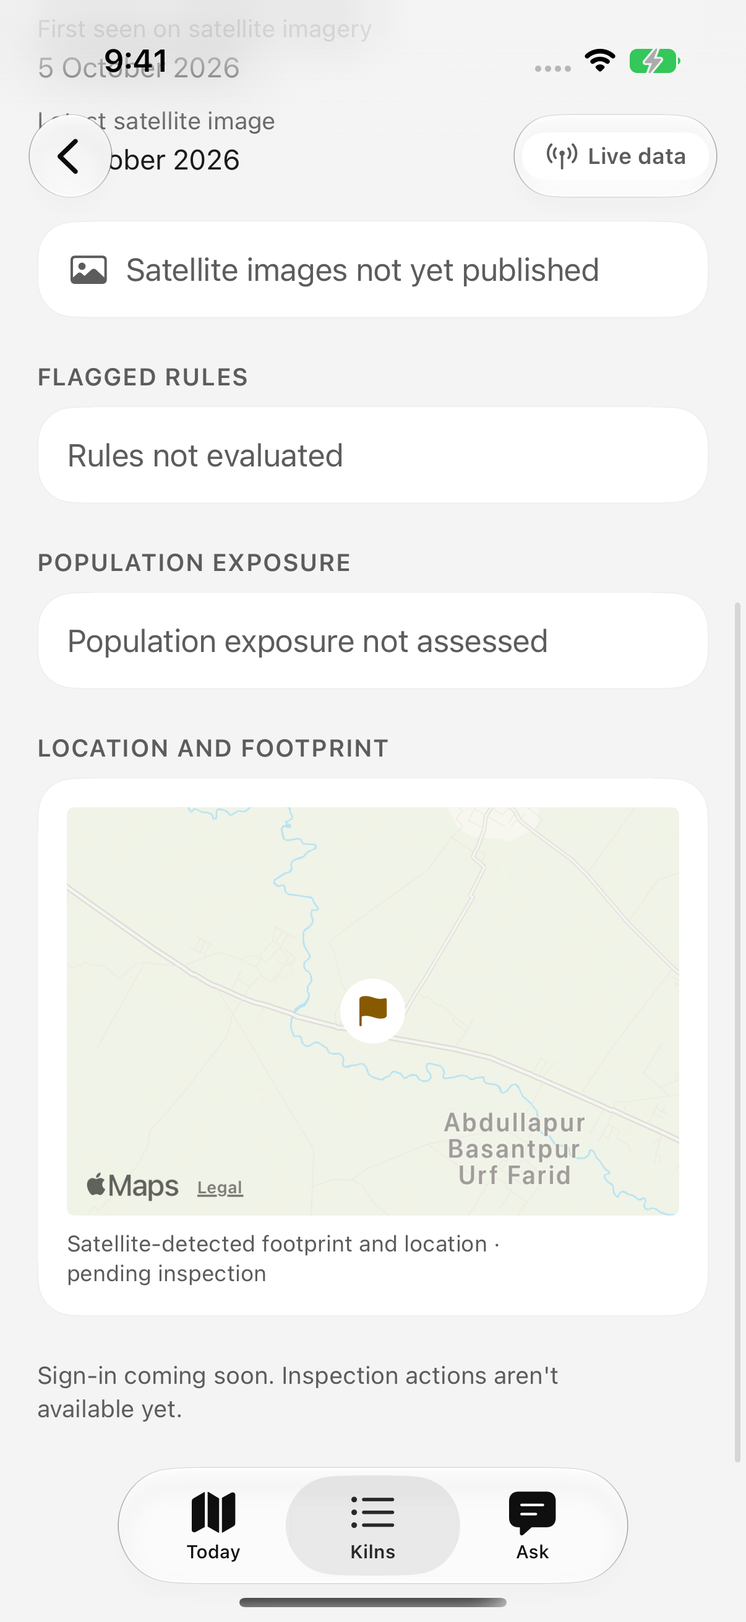
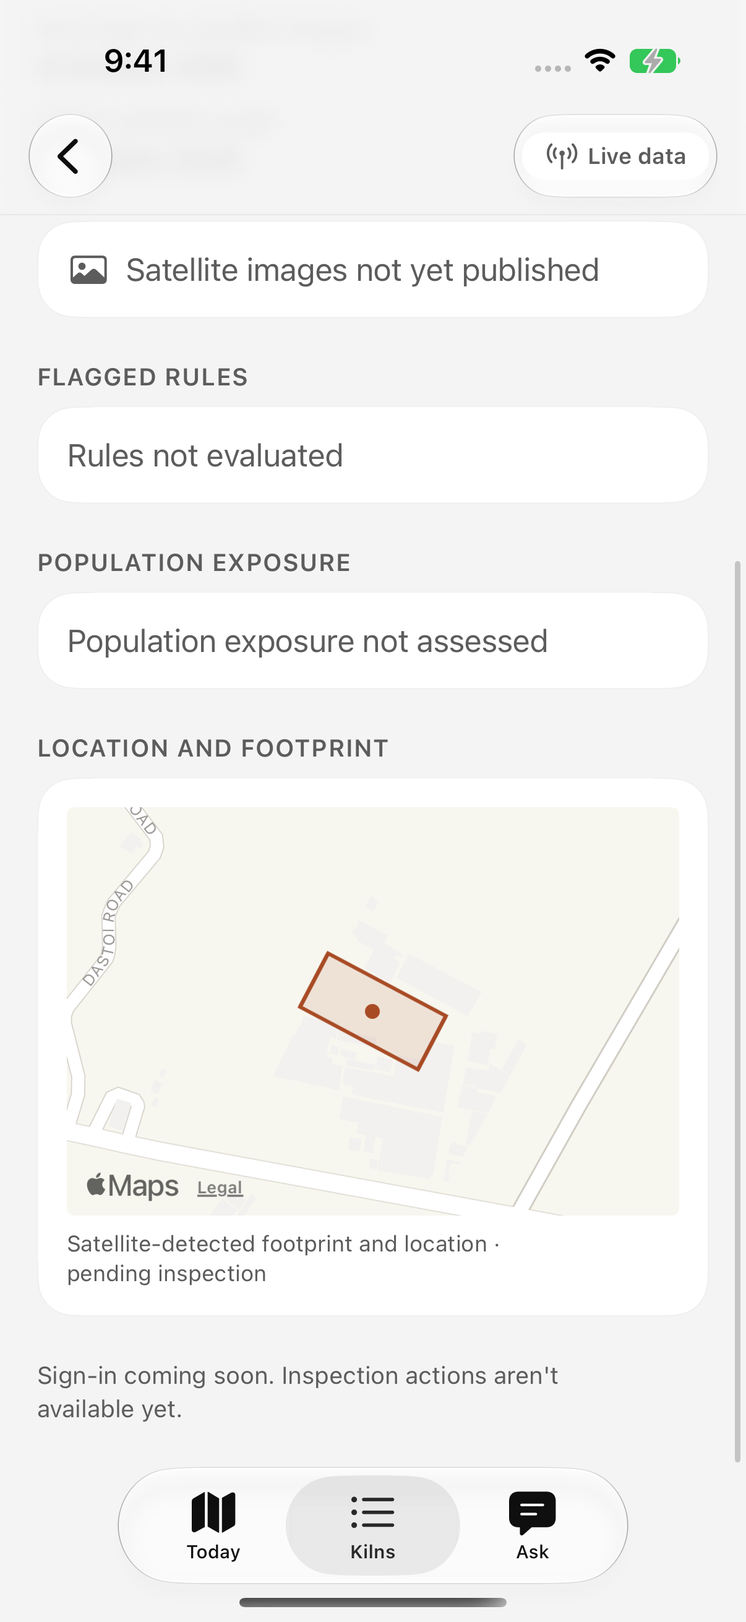
refactor: streamline KilnIDLabel and enhance UI with scroll edge effects; add polish report and verification files

diff --git a/App/docs/screens/phase-3/polish-ui-checks.swift b/App/docs/screens/phase-3/polish-ui-checks.swift
@@ -1,0 +1,203 @@
+// Temporary UI harness: /tmp/KilnWatchPolishChecks. Root project is unchanged.
+// Appearance and AX5 are set with simctl before each selected run.
+// Set the capture mode/name to Dark for dark captures; the saved version is Light.
+// The search-Cancel check ran once and failed to find the native beta Cancel button.
+import XCTest
+import UIKit
+
+final class Phase3Checks: XCTestCase {
+    override func setUpWithError() throws { continueAfterFailure = false }
+    @MainActor private func launch(_ args: [String] = []) -> XCUIApplication {
+        let app = XCUIApplication(bundleIdentifier: "com.kilnwatch.inspector")
+        app.launchArguments = ["-tab", "kilns", "-autoplay", "none"] + args
+        app.launch()
+        return app
+    }
+    @MainActor private func text(_ app: XCUIApplication, _ value: String, timeout: Double = 12) {
+        XCTAssertTrue(app.staticTexts[value].firstMatch.waitForExistence(timeout: timeout), value)
+    }
+    @MainActor private func noClaims(_ app: XCUIApplication) {
+        let labels = app.descendants(matching: .any).allElementsBoundByIndex.map(\.label).joined(separator: "\n").lowercased()
+        XCTAssertFalse(labels.contains("\u{69}\u{6c}\u{6c}\u{65}\u{67}\u{61}\u{6c}")); XCTAssertFalse(labels.contains("800 m"))
+        XCTAssertFalse(app.buttons["Record verdict"].exists)
+        XCTAssertFalse(app.buttons["Ask about this kiln"].exists)
+    }
+    @MainActor private func shot(_ name: String, _ app: XCUIApplication) {
+        let screenshot = app.screenshot()
+        let directory = FileManager.default.urls(for: .documentDirectory, in: .userDomainMask)[0]
+        try! screenshot.pngRepresentation.write(to: directory.appendingPathComponent(name + ".png"))
+        let a = XCTAttachment(screenshot: screenshot); a.name = name; a.lifetime = .keepAlways; add(a)
+    }
+    @MainActor func testLiveListDetailAndToday() throws {
+        let app = launch()
+        text(app, "HAPUR · 39 KILNS", timeout: 25)
+        text(app, "Live data")
+        noClaims(app)
+        let search = app.searchFields.firstMatch
+        XCTAssertTrue(search.exists); search.tap(); search.typeText("KW-6b3b38da681850e5af46b024f3d3f78e")
+        let row = app.descendants(matching: .any)["kiln-row-KW-6b3b38da681850e5af46b024f3d3f78e"].firstMatch
+        XCTAssertTrue(row.waitForExistence(timeout: 5)); row.tap()
+        text(app, "Model score 0.32")
+        text(app, "Predicted FCBK · unverified")
+        text(app, "Satellite images not yet published")
+        noClaims(app)
+        app.swipeUp()
+        text(app, "Rules not evaluated")
+        text(app, "Population exposure not assessed")
+        noClaims(app)
+        print("LIVE_AFTER_SEARCH_CROSS_TAB_UNVERIFIED_NATIVE_BETA_SELECTOR")
+        app.launchArguments = ["-tab", "today", "-autoplay", "none"]
+        app.launch()
+        text(app, "39 satellite-flagged candidates")
+        text(app, "Route planning isn't available yet")
+        XCTAssertFalse(app.buttons["Start route"].exists)
+        let pins = app.buttons.matching(NSPredicate(format: "identifier BEGINSWITH %@", "kiln-pin-"))
+        XCTAssertTrue(pins.firstMatch.waitForExistence(timeout: 5))
+        let pin = try XCTUnwrap(pins.allElementsBoundByIndex.first { $0.isHittable })
+        pin.tap()
+        text(app, "Satellite images not yet published")
+        noClaims(app)
+    }
+    @MainActor func testExistingFootprintsWhenZoomedAndRestoredMotion() throws {
+        XCTAssertFalse(UIAccessibility.isReduceMotionEnabled)
+        let app = launch(["-tab", "today"])
+        text(app, "39 satellite-flagged candidates", timeout: 25)
+        let map = app.maps.firstMatch
+        XCTAssertTrue(map.waitForExistence(timeout: 5))
+        let pins = app.buttons.matching(NSPredicate(format: "identifier BEGINSWITH %@", "kiln-pin-"))
+        XCTAssertEqual(pins.count, 39)
+        let pin = try XCTUnwrap(pins.allElementsBoundByIndex.first { $0.isHittable })
+        let center = map.coordinate(withNormalizedOffset: CGVector(dx: 0.5, dy: 0.5))
+        pin.coordinate(withNormalizedOffset: CGVector(dx: 0.5, dy: 0.5)).press(forDuration: 0.1, thenDragTo: center)
+        map.pinch(withScale: 20, velocity: 5)
+        shot("today-zoom-review", app)
+        print("POLISH_EXISTING_ZOOM_39_PINS_RESTORED_MOTION_CHECK")
+    }
+    @MainActor func testSearchCancelThenToday() throws {
+        let app = launch()
+        text(app, "HAPUR · 39 KILNS", timeout: 25)
+        let search = app.searchFields.firstMatch
+        search.tap(); search.typeText("6b3b38")
+        text(app, "HAPUR · 1 KILNS")
+        let cancel = app.buttons["Cancel"].firstMatch
+        XCTAssertTrue(cancel.waitForExistence(timeout: 5)); cancel.tap()
+        let today = app.tabBars.buttons["Today"].firstMatch
+        XCTAssertTrue(today.waitForExistence(timeout: 5)); today.tap()
+        text(app, "39 satellite-flagged candidates")
+        text(app, "Route planning isn't available yet")
+        let pins = app.buttons.matching(NSPredicate(format: "identifier BEGINSWITH %@", "kiln-pin-"))
+        XCTAssertEqual(pins.count, 39)
+        print("POLISH_SEARCH_CANCEL_THEN_TODAY_PASS_39_PINS")
+    }
+    @MainActor func testPublicListStates() throws {
+        for (scenario, message) in [
+            ("loading", "Loading satellite records"),
+            ("empty", "No flagged kilns in Hapur in the scanned imagery"),
+            ("offline", "You're offline"),
+            ("503", "KilnWatch data is temporarily unavailable"),
+            ("429", "The service is still busy. Please retry shortly.")
+        ] {
+            let app = launch(["-publicDemo", scenario]); text(app, message)
+            text(app, "Sample data"); noClaims(app)
+            XCTAssertTrue(app.buttons["Retry"].exists)
+            if scenario != "loading" { XCTAssertTrue(app.buttons["Retry"].isEnabled); app.buttons["Retry"].tap(); text(app, message) }
+        }
+        let app = launch(["-publicDemo", "429Recovery"])
+        text(app, "HAPUR · 11 KILNS"); text(app, "Sample data"); noClaims(app)
+    }
+    @MainActor func testPublicDetailFailuresAndRecovery() throws {
+        for (scenario, message) in [("404", "Kiln not found"), ("offline", "You're offline"), ("503", "KilnWatch data is temporarily unavailable"), ("recovery", "KilnWatch data is temporarily unavailable")] {
+            let app = launch(["-publicDemo", "loaded", "-publicDetail", scenario, "-open", "KW-0412"])
+            text(app, message); text(app, "Sample data"); noClaims(app)
+            XCTAssertTrue(app.buttons["Retry"].isEnabled); app.buttons["Retry"].tap()
+            if scenario == "recovery" { text(app, "Model score 0.82"); text(app, "Satellite images not yet published") }
+            else { text(app, message) }
+            noClaims(app)
+        }
+    }
+    @MainActor func testFixtureRouteRegression() throws {
+        let app = launch(["-fixtures", "YES", "-signedIn", "YES", "-tab", "today"])
+        XCTAssertTrue(app.buttons["Start route"].waitForExistence(timeout: 12)); text(app, "Sample data · illustrative routing")
+        app.buttons["Stop 2, KW-0388"].tap(); XCTAssertTrue(app.buttons["Navigate to KW-0388"].waitForExistence(timeout: 5))
+        app.buttons["Start route"].tap(); XCTAssertTrue(app.buttons["End route"].waitForExistence(timeout: 5))
+        app.buttons["Route list"].tap(); XCTAssertTrue(app.navigationBars["Route · 9 stops"].waitForExistence(timeout: 5))
+    }
+    @MainActor func testSyntheticEvidenceStatesAndAdjustableComparator() throws {
+        for state in ["loaded", "loading", "failed"] {
+            let app = launch(["-publicDemo", "loaded", "-open", "KW-0412", "-evidenceFixture", state])
+            text(app, "Model score 0.82"); app.swipeUp()
+            text(app, "Synthetic local image fixture · not satellite evidence")
+            if state == "loaded" {
+                let image = app.descendants(matching: .any)["satellite-comparator"].firstMatch
+                XCTAssertTrue(image.waitForExistence(timeout: 5)); XCTAssertEqual(image.value as? String, "Divider at 50 percent")
+                let from = image.coordinate(withNormalizedOffset: CGVector(dx: 0.5, dy: 0.5))
+                let to = image.coordinate(withNormalizedOffset: CGVector(dx: 0.7, dy: 0.5))
+                from.press(forDuration: 0.1, thenDragTo: to)
+                XCTAssertNotEqual(image.value as? String, "Divider at 50 percent")
+                shot("synthetic-evidence-loaded", app)
+            } else if state == "loading" { text(app, "Loading satellite images"); shot("synthetic-evidence-loading", app) }
+            else { text(app, "Satellite images couldn't be loaded"); app.buttons["Retry images"].tap(); text(app, "Satellite images couldn't be loaded"); shot("synthetic-evidence-failed", app) }
+            noClaims(app)
+        }
+    }
+    @MainActor func testRequiredScreenshots() throws {
+        for mode in ["Light"] {
+            let suffix = mode.lowercased()
+            var app = launch(["-UIUserInterfaceStyle", mode]); text(app, "HAPUR · 39 KILNS", timeout: 25); shot("kilns-\(suffix)", app)
+            app = launch(["-UIUserInterfaceStyle", mode, "-open", "KW-6b3b38da681850e5af46b024f3d3f78e"])
+            text(app, "Model score 0.32"); XCTAssertEqual(app.staticTexts.matching(identifier: "KW-6b3b38da681850e5af46b024f3d3f78e").count, 2); shot("detail-top-\(suffix)", app)
+            app.swipeUp(); app.swipeUp(); text(app, "Sign-in coming soon. Inspection actions aren't available yet."); shot("detail-bottom-\(suffix)", app)
+            app = launch(["-UIUserInterfaceStyle", mode, "-tab", "today"]); text(app, "39 satellite-flagged candidates", timeout: 25); shot("today-\(suffix)", app)
+
+        }
+    }
+    @MainActor func testDetailCancellationBackoffAndRetryGuard() throws {
+        for scenario in ["slow", "429"] {
+            let app = launch(["-publicDemo", "loaded", "-publicDetail", scenario])
+            text(app, "HAPUR · 11 KILNS")
+            let row = app.descendants(matching: .any)["kiln-row-KW-0412"].firstMatch
+            XCTAssertTrue(row.waitForExistence(timeout: 5))
+            for _ in 0..<3 {
+                row.tap()
+                let expected = scenario == "slow" ? "Loading satellite records" : "Busy, retrying"
+                let pending = app.staticTexts[expected].firstMatch
+                if pending.exists { XCTAssertFalse(app.buttons["Retry"].isEnabled) }
+                app.navigationBars.buttons.firstMatch.tap()
+                XCTAssertTrue(row.waitForExistence(timeout: 5))
+            }
+            row.tap()
+            if scenario == "slow" {
+                let interrupted = app.staticTexts["Loading interrupted"].firstMatch
+                if interrupted.exists { XCTAssertTrue(app.buttons["Retry"].isEnabled); app.buttons["Retry"].tap() }
+                text(app, "Model score 0.82")
+            } else {
+                text(app, "The service is still busy. Please retry shortly.")
+                XCTAssertTrue(app.buttons["Retry"].isEnabled)
+                app.buttons["Retry"].tap()
+                let busy = app.staticTexts["Busy, retrying"].firstMatch
+                XCTAssertTrue(busy.exists)
+                if app.staticTexts["We'll try once more in a moment."].exists { XCTAssertFalse(app.buttons["Retry"].isEnabled) }
+                text(app, "The service is still busy. Please retry shortly.")
+                XCTAssertTrue(app.buttons["Retry"].isEnabled)
+            }
+        }
+    }
+    @MainActor func testAXAndReduceMotion() throws {
+        XCTAssertTrue(UIAccessibility.isReduceMotionEnabled)
+        let app = launch()
+        text(app, "HAPUR · 39 KILNS", timeout: 25);
+        let first = app.descendants(matching: .any).matching(NSPredicate(format: "identifier BEGINSWITH %@", "kiln-row-")).firstMatch
+        XCTAssertTrue(first.waitForExistence(timeout: 5)); let fullID = first.identifier.replacingOccurrences(of: "kiln-row-", with: "")
+        XCTAssertTrue(first.label.contains(fullID)); first.tap()
+        XCTAssertTrue(app.staticTexts[fullID].firstMatch.waitForExistence(timeout: 12))
+        shot("detail-ax5-light", app)
+        for _ in 0..<6 { if app.staticTexts["Rules not evaluated"].isHittable { break }; app.swipeUp() }
+        text(app, "Rules not evaluated"); noClaims(app);
+        app.navigationBars.buttons.firstMatch.tap()
+        if app.buttons["Cancel"].exists && app.buttons["Cancel"].isHittable { app.buttons["Cancel"].tap() }
+        app.swipeDown()
+        if !app.tabBars.buttons["Today"].exists { app.tabBars.buttons["Kilns"].tap() }
+        app.tabBars.buttons["Today"].tap(); text(app, "Route planning isn't available yet");
+        let appError = launch(["-publicDemo", "503"]); text(appError, "KilnWatch data is temporarily unavailable"); XCTAssertTrue(appError.buttons["Retry"].isHittable);
+    }
+}

diff --git a/App/KilnWatch/Features/Kiln/KilnView.swift b/App/KilnWatch/Features/Kiln/KilnView.swift
@@ -94,6 +94,7 @@ private struct KilnDetailView: View {
             .padding(.bottom, Space.xl)
             .redacted(reason: model.isLoading ? .placeholder : [])
         }
+        .scrollEdgeEffectStyle(.hard, for: .top)
         .scrollPosition($scroll)
         .background(.canvas)
         .navigationBarTitleDisplayMode(.inline)
@@ -124,12 +125,18 @@ private struct KilnDetailView: View {
 
     private var header: some View {
         VStack(alignment: .leading, spacing: Space.xs) {
-            // Explicit wrap opportunities prevent a discretionary hyphen becoming part of the visible ID.
-            Text(kiln.kilnId.map(String.init).joined(separator: "\u{200B}"))
+            Text(KilnIDLabel.shortID(kiln.kilnId))
                 .font(.largeTitle.weight(.semibold).monospaced())
                 .foregroundStyle(.ink)
                 .accessibilityAddTraits(.isHeader)
                 .accessibilityLabel(kiln.kilnId)
+            Text(kiln.kilnId)
+                // IDs are nonlinguistic: wrap without dictionary-inserted hyphens.
+                .typesettingLanguage(.explicit(.init(identifier: "zxx")))
+                .font(.footnote.monospaced())
+                .foregroundStyle(.inkSecondary)
+                .fixedSize(horizontal: false, vertical: true)
+                .textSelection(.enabled)
             Text(typeLine)
                 .font(.subheadline)
                 .foregroundStyle(.inkSecondary)
@@ -211,7 +218,7 @@ private struct BufferMap: View {
 
     var body: some View {
         VStack(alignment: .leading, spacing: Space.xs) {
-            Map(initialPosition: .region(MKCoordinateRegion(center: kiln.coordinate, latitudinalMeters: 2_400, longitudinalMeters: 2_400)),
+            Map(initialPosition: .region(region),
                 interactionModes: []) {
                 if illustrative {
                 MapCircle(center: kiln.coordinate, radius: 800)
@@ -219,8 +226,8 @@ private struct BufferMap: View {
                     .stroke(Color.ink.opacity(0.6), style: StrokeStyle(lineWidth: 1.5, dash: [6, 4]))
                 } else if kiln.footprint.polygon.allSatisfy(\.isValid), kiln.footprint.polygon.count >= 3 {
                     MapPolygon(coordinates: kiln.footprint.polygon.map(\.clLocation))
-                        .foregroundStyle(Color.flagged.opacity(0.12))
-                        .stroke(Color.flagged, lineWidth: 2)
+                        .foregroundStyle(Color.clay.opacity(0.12))
+                        .stroke(Color.clay, lineWidth: 2)
                 }
                 Annotation(kiln.kilnId, coordinate: kiln.coordinate) {
                     if illustrative {
@@ -230,10 +237,9 @@ private struct BufferMap: View {
                         .frame(width: 22, height: 10)
                         .rotationEffect(.degrees(-28))
                     } else {
-                        Image(systemName: "flag.fill")
-                            .foregroundStyle(.flagged)
-                            .padding(Space.xs)
-                            .background(.surface, in: .circle)
+                        Circle()
+                            .fill(.clay)
+                            .frame(width: 8, height: 8)
                     }
                 }
                 .annotationTitles(.hidden)
@@ -272,6 +278,19 @@ private struct BufferMap: View {
                 .font(.caption)
                 .foregroundStyle(.inkSecondary)
         }
+    }
+
+    private var region: MKCoordinateRegion {
+        let fallback = MKCoordinateRegion(center: kiln.coordinate, latitudinalMeters: illustrative ? 2_400 : 300, longitudinalMeters: illustrative ? 2_400 : 300)
+        let polygon = kiln.footprint.polygon
+        guard !illustrative, polygon.count >= 3, polygon.allSatisfy(\.isValid),
+              let minLat = polygon.map(\.latitude).min(), let maxLat = polygon.map(\.latitude).max(),
+              let minLon = polygon.map(\.longitude).min(), let maxLon = polygon.map(\.longitude).max() else { return fallback }
+        let center = CLLocationCoordinate2D(latitude: (minLat + maxLat) / 2, longitude: (minLon + maxLon) / 2)
+        let minimum = MKCoordinateRegion(center: center, latitudinalMeters: 300, longitudinalMeters: 300).span
+        return MKCoordinateRegion(center: center, span: MKCoordinateSpan(
+            latitudeDelta: max((maxLat - minLat) * 1.4, minimum.latitudeDelta),
+            longitudeDelta: max((maxLon - minLon) * 1.4, minimum.longitudeDelta)))
     }
 
     private var accessibilityText: String {

diff --git a/App/KilnWatch/Features/Today/PublicRegistryMap.swift b/App/KilnWatch/Features/Today/PublicRegistryMap.swift
@@ -26,9 +26,9 @@ struct PublicRegistryMap: View {
                         Annotation(kiln.kilnId, coordinate: kiln.coordinate) {
                             Button { model.open(kiln: kiln.kilnId) } label: {
                                 Image(systemName: "flag.fill")
-                                    .font(.caption.weight(.semibold))
+                                    .font(.caption2.weight(.semibold))
                                     .foregroundStyle(.flagged)
-                                    .frame(width: 32, height: 32)
+                                    .frame(width: 22, height: 22)
                                     .background(.surface, in: .circle)
                                     .frame(minWidth: 44, minHeight: 44)
                                     .contentShape(.rect)

diff --git a/App/KilnWatch/Design/Components/KilnIDLabel.swift b/App/KilnWatch/Design/Components/KilnIDLabel.swift
@@ -19,7 +19,7 @@ struct KilnIDLabel: View {
     }
 
     @ViewBuilder private var content: some View {
-        Text(abbreviatesID && kiln.kilnId.count > 18 ? "\(kiln.kilnId.prefix(9))…\(kiln.kilnId.suffix(6))" : kiln.kilnId)
+        Text(abbreviatesID ? Self.shortID(kiln.kilnId) : kiln.kilnId)
             .font(idFont.monospaced())
             .foregroundStyle(.ink)
         if showsType {
@@ -27,6 +27,10 @@ struct KilnIDLabel: View {
                 .font(.subheadline.monospacedDigit())
                 .foregroundStyle(.inkSecondary)
         }
+    }
+
+    static func shortID(_ id: String) -> String {
+        id.count > 18 ? "\(id.prefix(9))…\(id.suffix(6))" : id
     }
 
     private var typeLine: String {

diff --git a/App/KilnWatch/Features/Kilns/KilnsView.swift b/App/KilnWatch/Features/Kilns/KilnsView.swift
@@ -38,6 +38,7 @@ struct KilnsView: View {
                     }
                 }
             }
+            .scrollEdgeEffectStyle(.hard, for: .top)
             .scrollContentBackground(.hidden)
             .background(.canvas)
             .redacted(reason: model.isLoading ? .placeholder : [])

diff --git a/App/docs/screens/phase-3/polish-report.md b/App/docs/screens/phase-3/polish-report.md
@@ -1,0 +1,38 @@
+# Phase 3 polish report — 10 October 2026
+
+The four presentation fixes are complete. Search → Today passed by hand; the single cancel-search UI-test path remains unverified because the native Cancel button was absent from the beta harness query. No navigation source change was needed.
+
+1. **Detail title:** extracted the existing list formatter into `KilnIDLabel.shortID` and reused it. The actual list format is `KW-6b3b38…d3f78e` (six trailing characters), which is preserved rather than replacing it with the prompt's eight-character example. The large title retains the full accessibility label. The full ID appears directly below in secondary monospaced footnote text with native text selection. Nonlinguistic typesetting prevents system-inserted hyphens while preserving the original selectable string. Both AX5 captures show complete glyphs with no title/ID overlap. See [light](detail-top-light.png), [dark](detail-top-dark.png), [AX5 light](detail-ax5-light.png), [AX5 dark](detail-ax5-dark.png).
+2. **Mini-map:** the live branch fits the footprint bounds with 40% padding and a 300 m minimum span. It uses a clay outline, light clay fill and an 8 pt centroid dot. The reference polygon is clearly visible in both [light](detail-bottom-light.png) and [dark](detail-bottom-dark.png). The fixture's 2400 m camera, 800 m buffer and home/school points remain unchanged. The accessibility meaning and label are unchanged.
+3. **Today pins:** visible circles are 22 pt, with 44 pt frames/content shapes retained. Dense nearby pairs still overlap slightly, especially south/east of Hapur; there is no heavy region-wide pileup in [light](today-light.png) or [dark](today-dark.png). No clustering or zoom logic was added. Source inspection confirms footprints are already drawn at every zoom level. A supplemental UI check confirmed all 39 pin controls and completed a pan/pinch, but its resulting view did not reach footprint scale; close-zoom footprint visibility remains visually unverified. The Mac locked before that check, so native hand interaction was unavailable.
+4. **Top edge:** neither hidden toolbar backgrounds nor ignored top safe areas caused the issue. The detail and list relied on the automatic edge style; it left text readable beneath the controls. Applied the native `.hard` top scroll-edge style to the detail ScrollView and Kilns List. Detail-bottom captures show the clean system boundary with no date text behind the back button/status bar. Kilns [light](kilns-light.png) and [dark](kilns-dark.png) were also recaptured. No handmade blur or design-token changes.
+5. **Search → Today:** **pass by hand**, once. Entered `6b3b38`, submitted the active search to dismiss the keyboard, then tapped Today once. The live 39-candidate map and route-unavailable notice loaded. The separate **single UI-test cancel path remains unverified**: its Cancel existence assertion failed before a tab tap. No retry loops and no established app defect. The final separate map check verified 39 pin controls.
+
+Verification: core **34 functions: 33 passed, one existing opt-in skip**, with **zero warnings**. The prescribed root iPhone 17 build passed after the final source change with **zero warnings**. All **eight existing Phase 3 XCTest methods** have passing coverage. Including repeated appearance/AX captures and the supplemental map/settings check: **15 executions, 14 passes, one native-control harness failure**. The initial temporary-harness compile typo was corrected before any tests executed. Temporary harness warnings concern manual build order and missing AppIntents metadata; they do not apply to the root build. The failed suite emitted complete XCTest outcomes and then stalled finalizing its beta result bundle; it was stopped after test completion. Successful selected runs returned `TEST SUCCEEDED`. See [verification extract](polish-verification.txt) and [temporary UI source](polish-ui-checks.swift).
+
+Every delivered capture was opened and inspected. `detail-ax5.png` now matches the explicit dark AX5 top capture. Simulator appearance and text size are restored to **Light / Large**. The Reduce Motion override is absent and a fresh UI runner verified Reduce Motion off; keyboard capture was restored off before the Mac locked.
+
+Kilns light/dark were recaptured and inspected but are byte-identical to the starting screenshots. The sixteen files with content changes follow, one line each (paths relative to the repository):
+
+- `App/KilnWatch/Design/Components/KilnIDLabel.swift` — shares the existing short-ID formatter.
+- `App/KilnWatch/Features/Kiln/KilnView.swift` — title/full ID, footprint framing/style/dot and native top edge.
+- `App/KilnWatch/Features/Kilns/KilnsView.swift` — native hard top edge.
+- `App/KilnWatch/Features/Today/PublicRegistryMap.swift` — smaller visible pins, unchanged 44 pt targets.
+- `App/docs/screens/phase-3/detail-top-light.png` — recaptured title/full ID, light.
+- `App/docs/screens/phase-3/detail-top-dark.png` — recaptured title/full ID, dark.
+- `App/docs/screens/phase-3/detail-bottom-light.png` — recaptured footprint/top edge, light.
+- `App/docs/screens/phase-3/detail-bottom-dark.png` — recaptured footprint/top edge, dark.
+- `App/docs/screens/phase-3/today-light.png` — recaptured smaller pins, light.
+- `App/docs/screens/phase-3/today-dark.png` — recaptured smaller pins, dark.
+- `App/docs/screens/phase-3/detail-ax5.png` — refreshed existing AX5 artifact with final dark title capture.
+- `App/docs/screens/phase-3/detail-ax5-light.png` — new final AX5 title/full-ID capture, light.
+- `App/docs/screens/phase-3/detail-ax5-dark.png` — new explicit final AX5 title/full-ID capture, dark.
+- `App/docs/screens/phase-3/polish-ui-checks.swift` — reviewable temporary harness source; no root test target added.
+- `App/docs/screens/phase-3/polish-verification.txt` — compact outcomes and harness limitations.
+- `App/docs/screens/phase-3/polish-report.md` — this report.
+
+No commits, pushes, staging, AWS work, sub-agents or protected-folder edits. All **419 protected-file/Phase 2/HEAD fingerprints** match the starting values; the staged diff is empty. Read-only Git inspections refreshed index metadata (its byte checksum changed); no Git write commands were issued. The configured deployment hostname is absent from changed app/report/test files. Existing Phase 2 artifacts and the overnight report are preserved. No later-phase work.
+
+Research used: Apple's [ScrollEdgeEffectStyle](https://developer.apple.com/documentation/swiftui/scrolledgeeffectstyle) describes the more opaque hard boundary; [Text typesettingLanguage](https://developer.apple.com/documentation/swiftui/text/typesettinglanguage(_:isenabled:)-85e9h) documents explicit language control over line breaking. Axiom design, SwiftUI, accessibility, location and testing guidance plus SwiftUI Expert were applied sequentially. No deviation from the binding design system.
+
+Stopped after this report.
